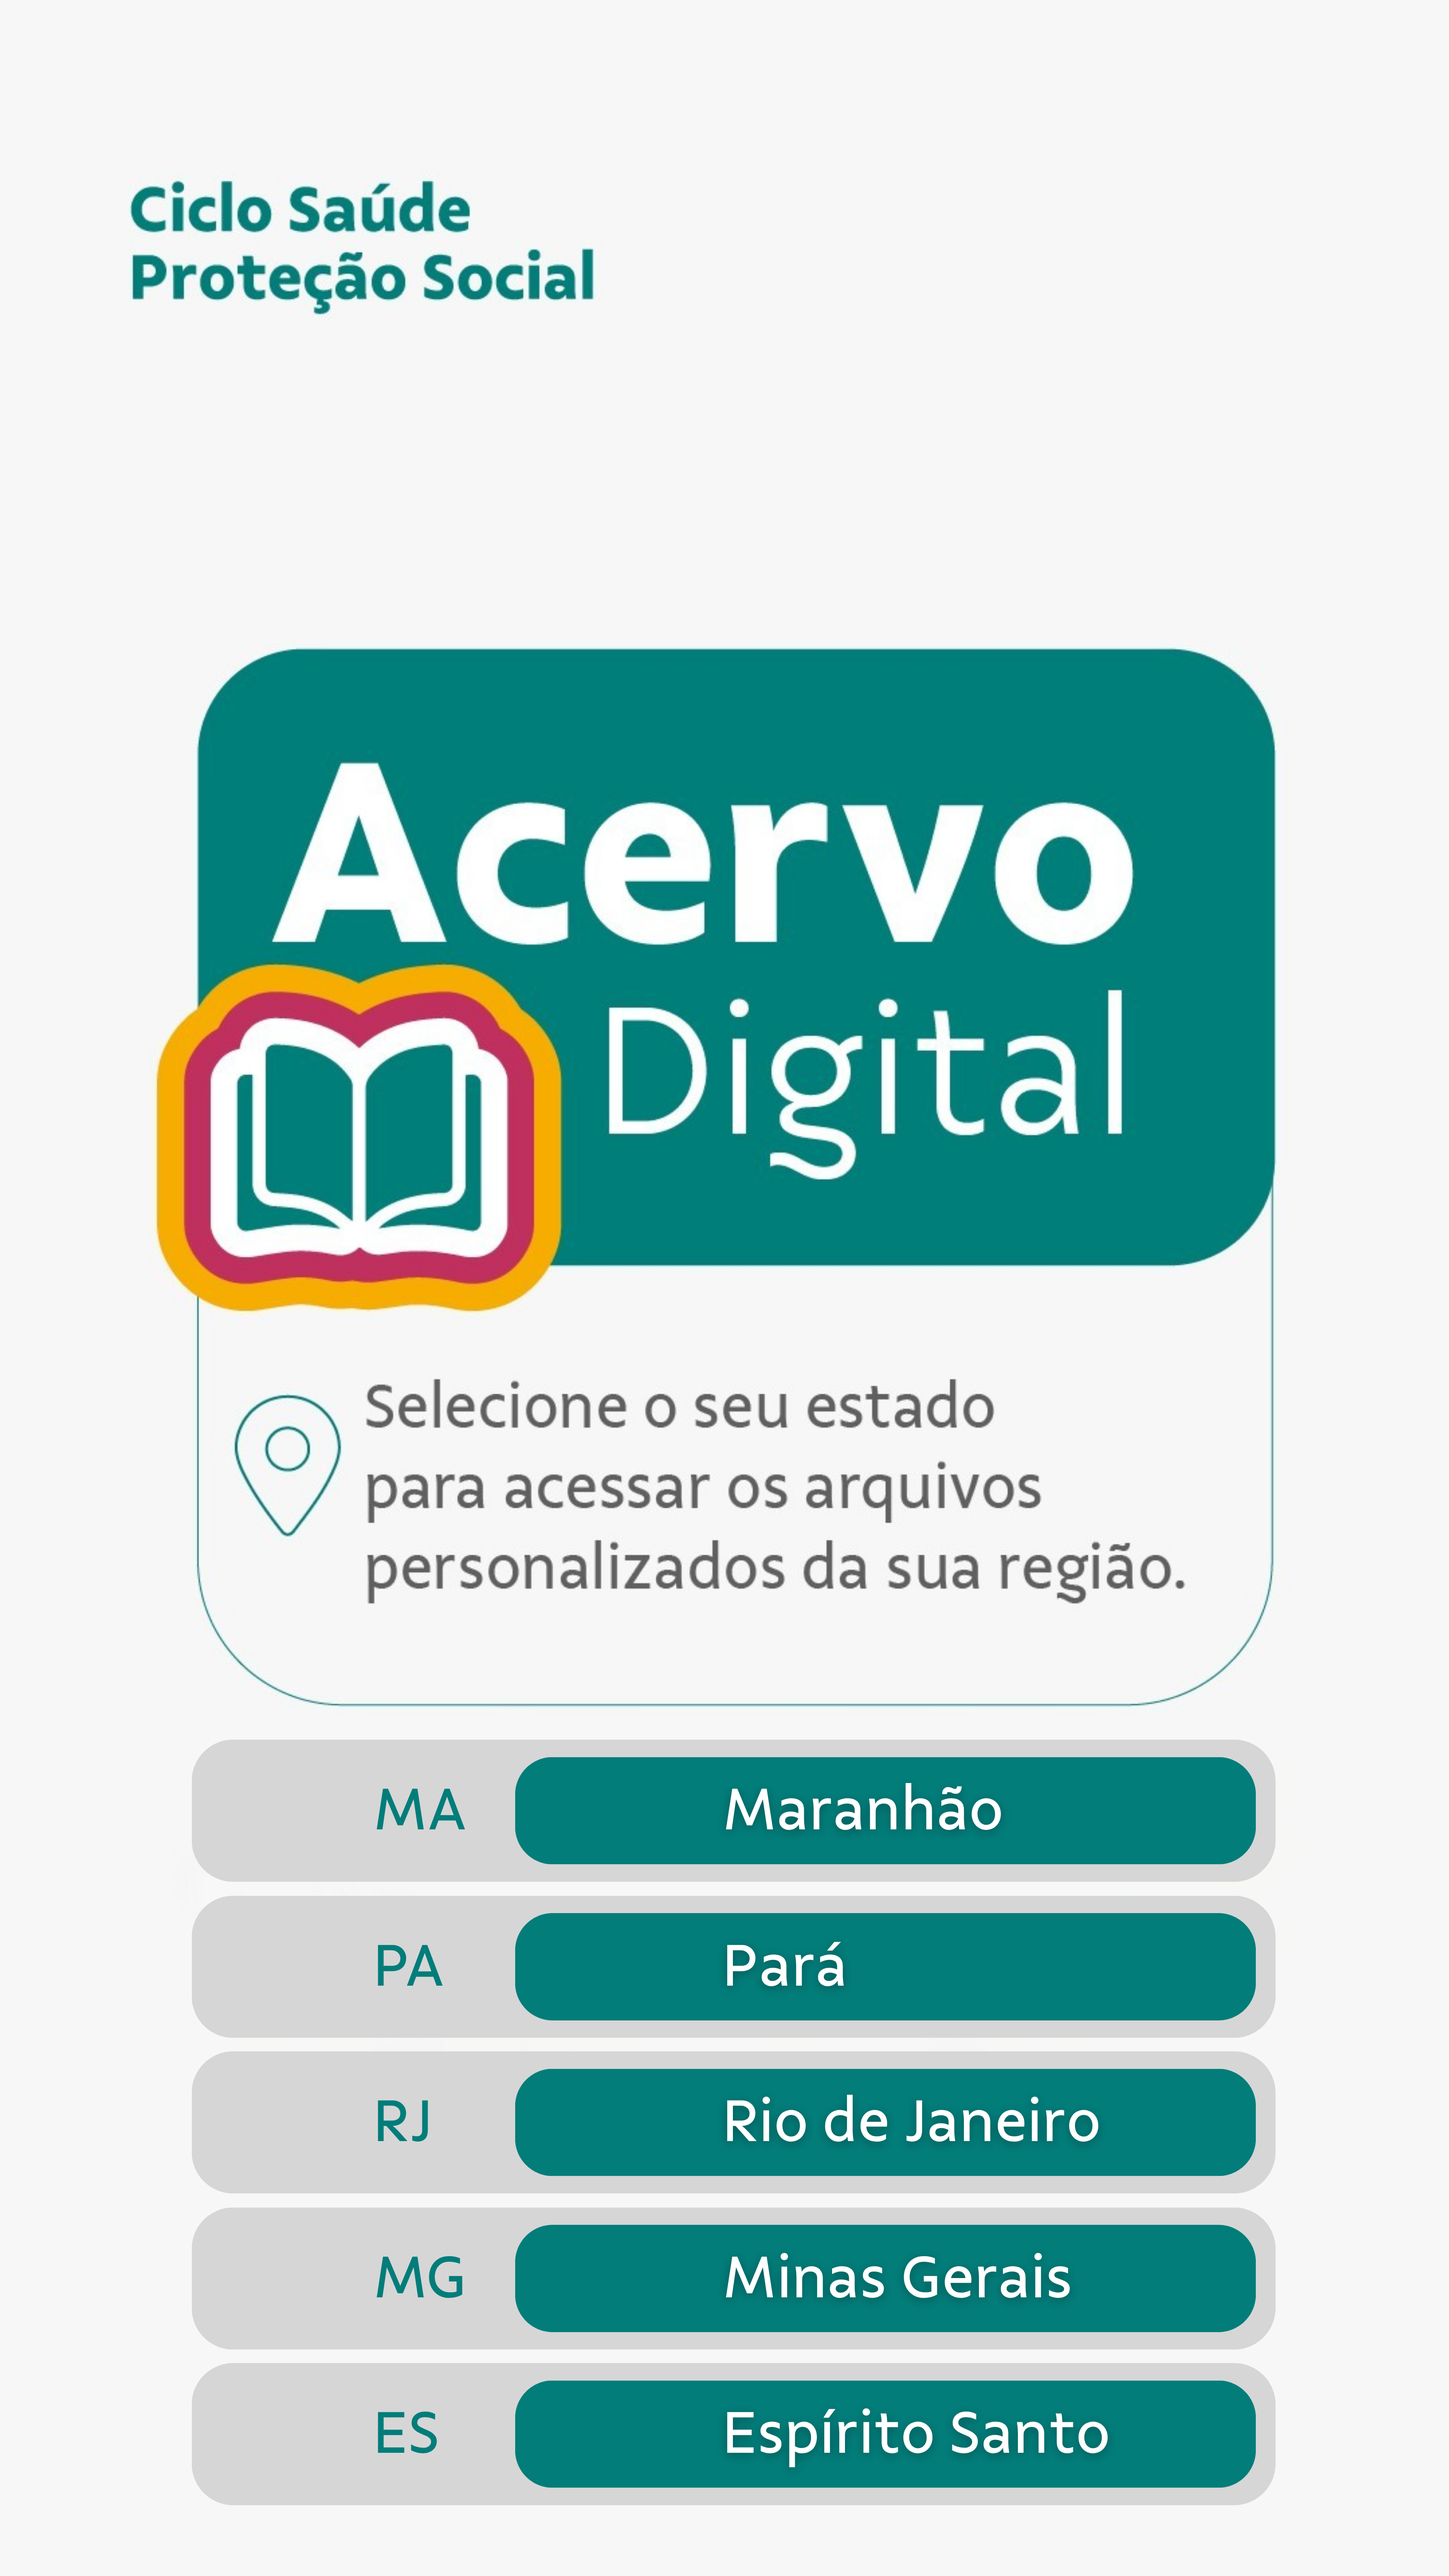
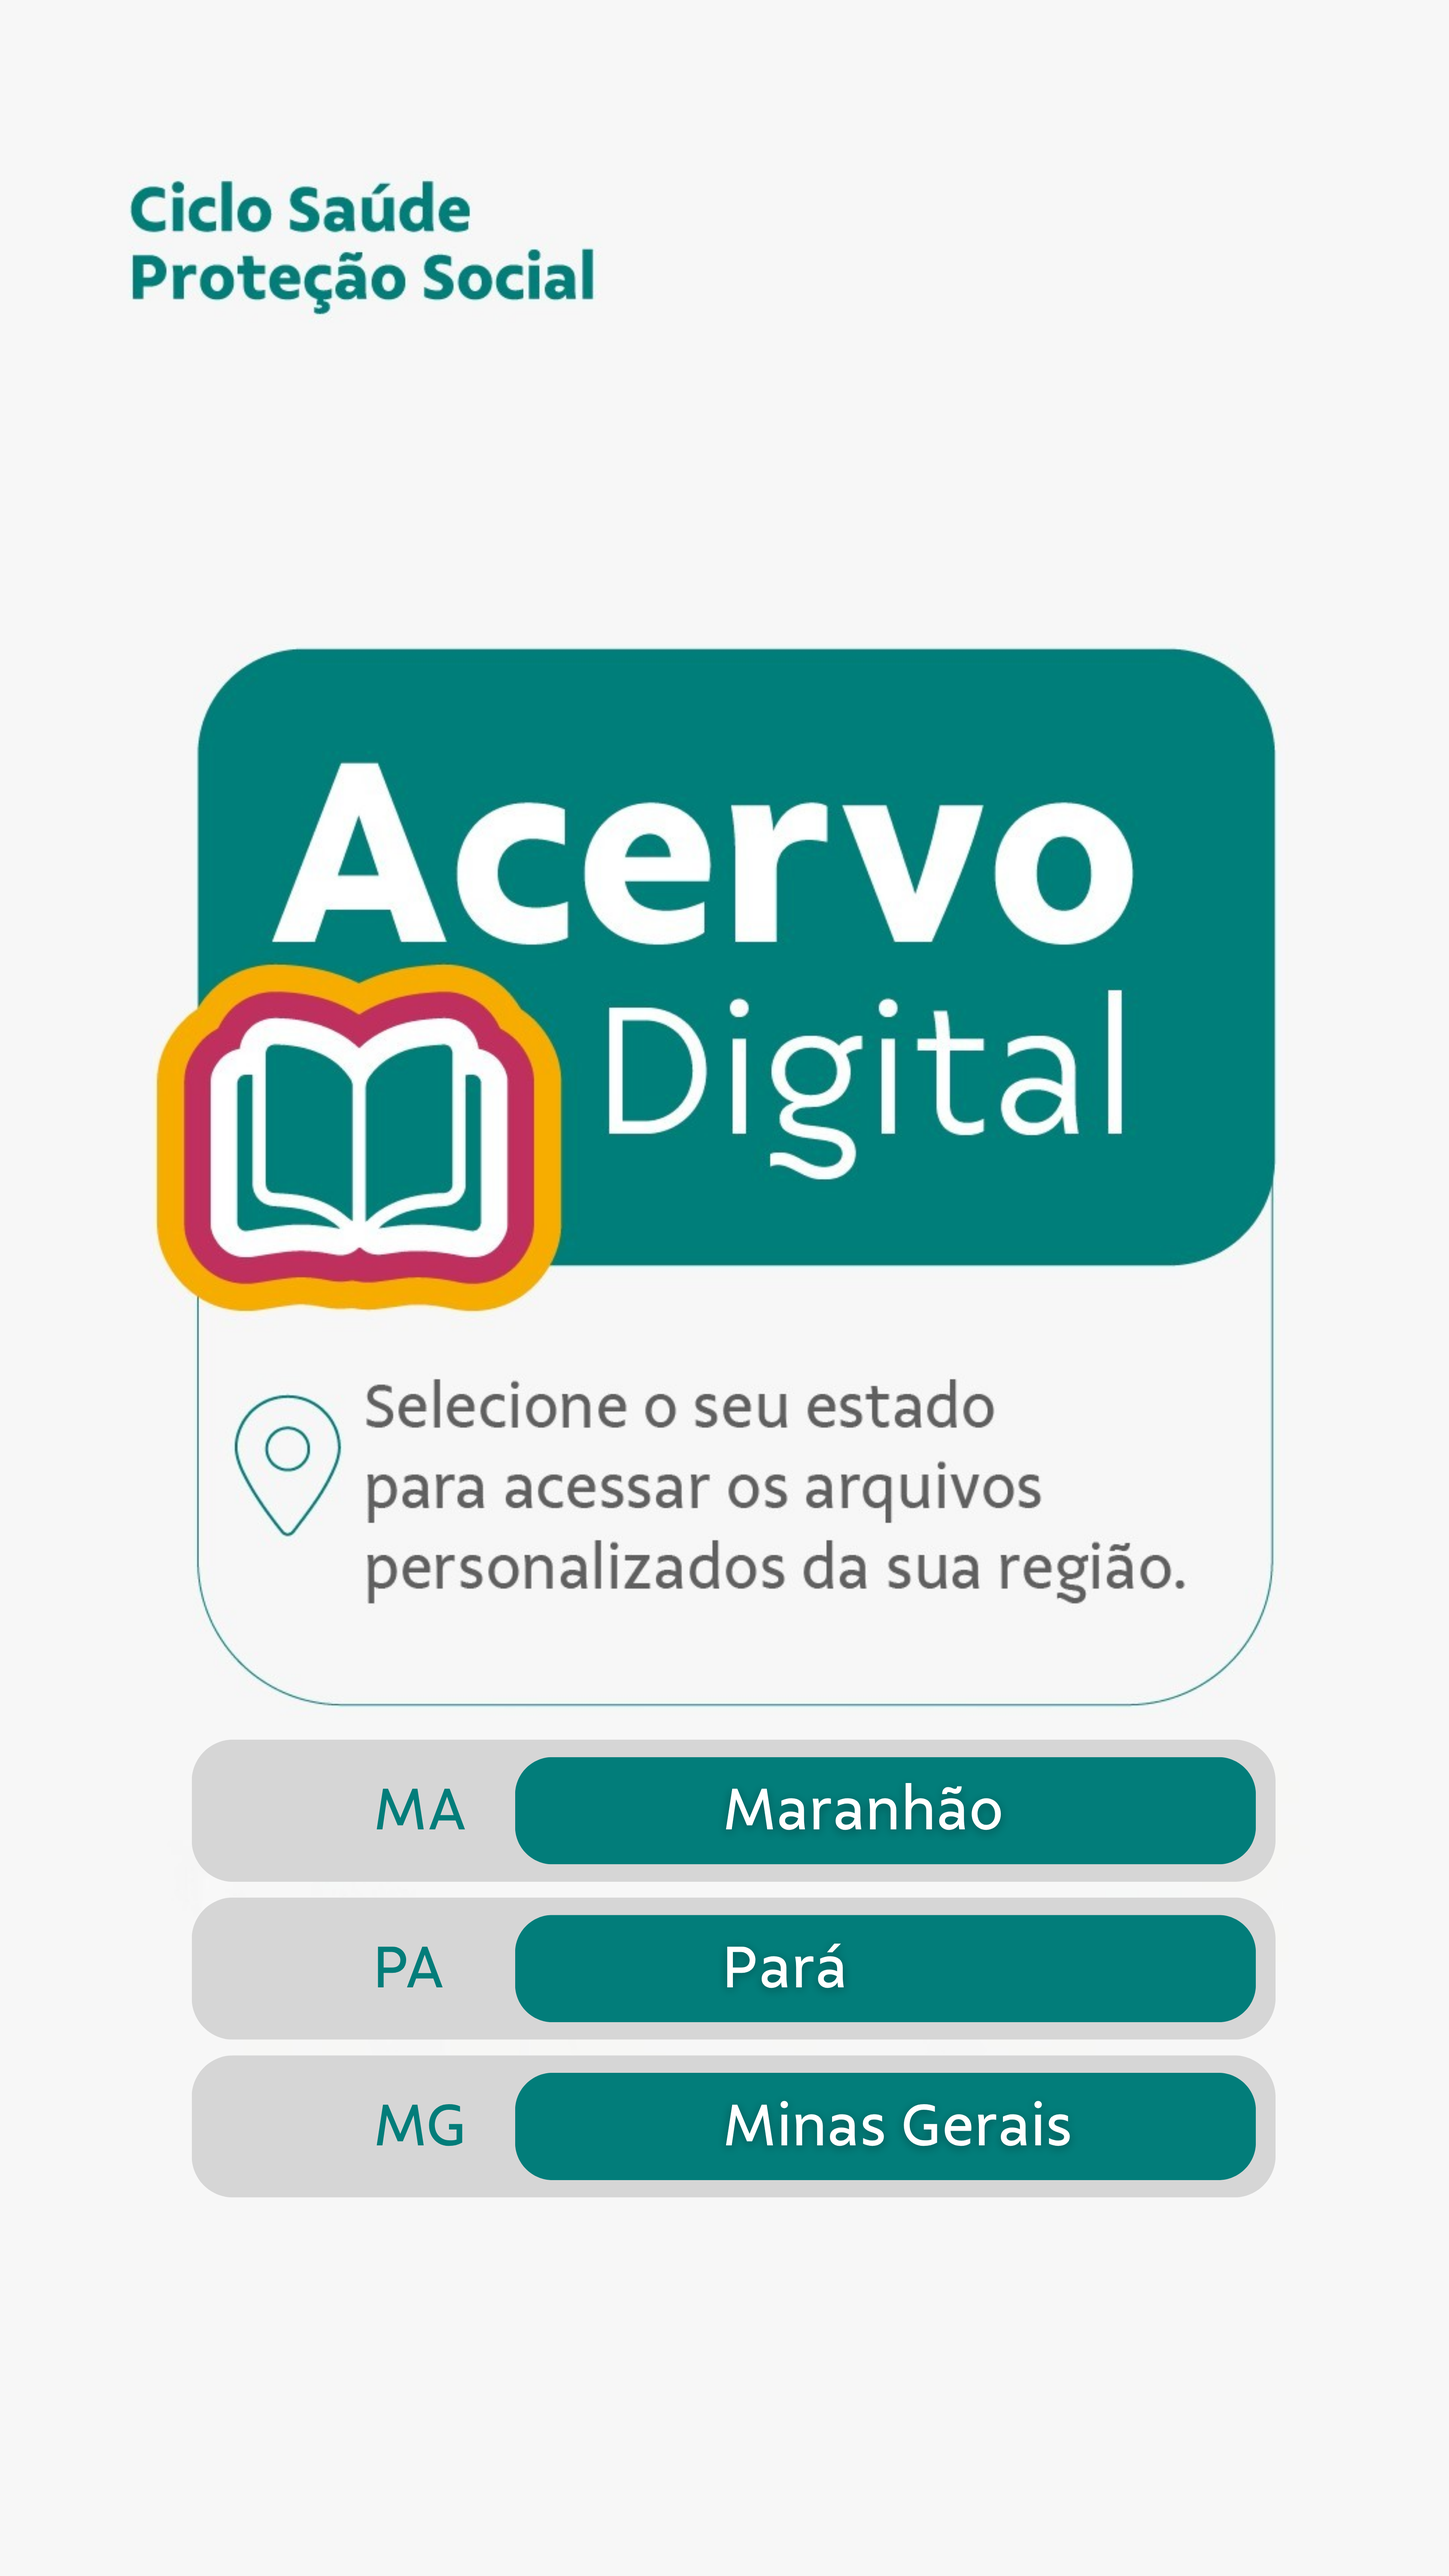
feat: atualiza Tela 2 e Tela 3 para novo layout com 3 estados (MA, PA, MG)

Changed region(s): [[0.1244, 0.7792, 0.9022, 0.9973]]

diff --git a/src/components/ScreenView.tsx b/src/components/ScreenView.tsx
@@ -89,7 +89,7 @@ export const ScreenView: React.FC<ScreenViewProps> = ({
         />
       )}
 
-      {/* Screen 2: Dropdown options */}
+      {/* Screen 2: Dropdown options (3 states: MA, PA, MG) */}
       {currentScreen === 'tela-2' && (
         <>
           <Hotspot
@@ -116,26 +116,8 @@ export const ScreenView: React.FC<ScreenViewProps> = ({
             width="74.13%"
             height="4.2%"
             rounded="full"
-            label="Rio de Janeiro (RJ)"
-            onClick={() => onSelectState('RJ')}
-          />
-          <Hotspot
-            top="86.42%"
-            left="12.92%"
-            width="74.13%"
-            height="4.2%"
-            rounded="full"
             label="Minas Gerais (MG)"
             onClick={() => onSelectState('MG')}
-          />
-          <Hotspot
-            top="92.42%"
-            left="12.92%"
-            width="74.13%"
-            height="4.2%"
-            rounded="full"
-            label="Espírito Santo (ES)"
-            onClick={() => onSelectState('ES')}
           />
         </>
       )}
